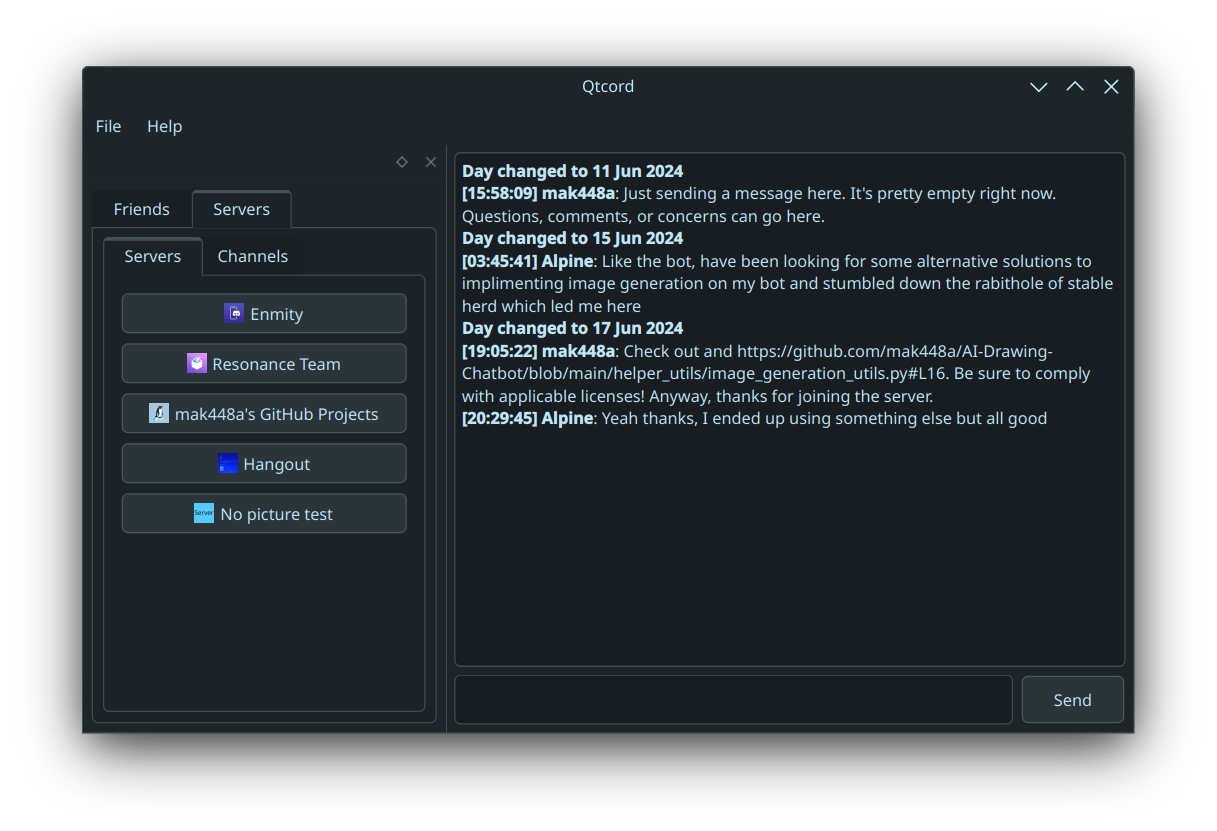
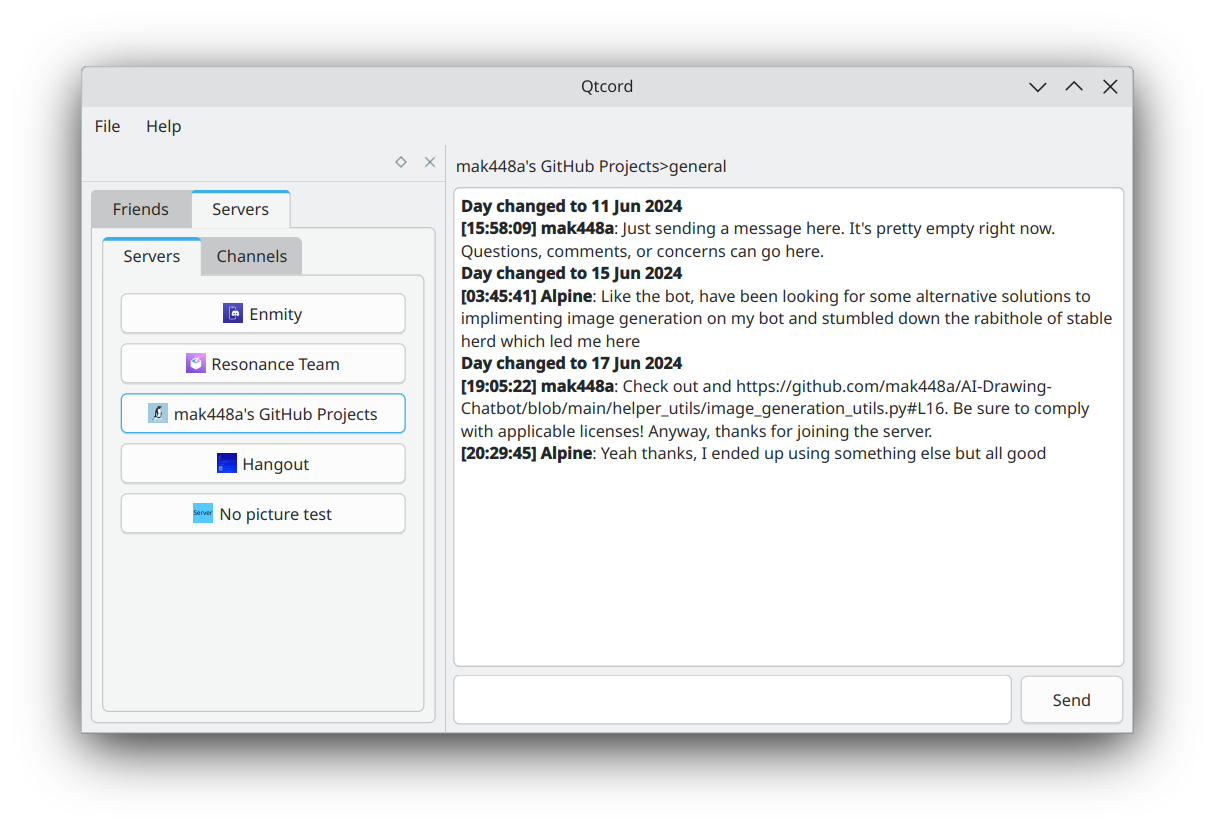
Prepare for release! (#72)
* Update demos

* Update licenses

* Update metainfo

diff --git a/src/ui/licenses_ui.py b/src/ui/licenses_ui.py
@@ -63,31 +63,34 @@ class Ui_LicensesDialog(object):
 "<p style=\" margin-top:0px; margin-bottom:0px; margin-left:0px; margin-right:0px; -qt-block-indent:0; text-indent:0px;\"><span style=\" font-weight:700;\">PySide6</span></p>\n"
 "<p style=\" margin-top:0px; margin-bottom:0px; margin-left:0px; margin-right:0px; -qt-block-indent:0; text-indent:0px;\">LGPL</p>\n"
 "<p style=\" margin-top:0px; margin-bottom:0px; margin-left:0px; margin-right:0px; -qt-block-indent:0; text-indent:0px;\"><span style=\" font-weight:700;\">Platformdirs</span></p>\n"
-"<p style=\" margin-top:0px; margin-bottom:0px; margin-left:0px; margin-right:0px; -qt-block-indent:0; text-indent:0px;\">MIT</p>\n"
-"<p style=\" margin-top:0px; margin-bottom:0px; margin-left:0px; margin-right:0px; -qt-block-indent:0; text-indent:0px;\"><span style=\" font-weight:700;\">Requests</span></p>\n"
-"<p"
-                        " style=\" margin-top:0px; margin-bottom:0px; margin-left:0px; margin-right:0px; -qt-block-indent:0; text-indent:0px;\">Apache</p>\n"
+"<p style=\" margin-top:0px; margin-bottom:0px; margin-left:0px; margin-right:0px; -qt-block-indent:0; text-indent:0px;\">MIT: Copyright (c) 2010-202x The platformdirs developers</p>\n"
+"<p style=\" margin-top:0px; margin-bottom:0px; margin-left:0px; margin-right:0px; -qt-block-indent:0; text-indent:0px;\"><span s"
+                        "tyle=\" font-weight:700;\">Requests</span></p>\n"
+"<p style=\" margin-top:0px; margin-bottom:0px; margin-left:0px; margin-right:0px; -qt-block-indent:0; text-indent:0px;\">Apache</p>\n"
 "<p style=\" margin-top:0px; margin-bottom:0px; margin-left:0px; margin-right:0px; -qt-block-indent:0; text-indent:0px;\"><span style=\" font-weight:700;\">Python</span></p>\n"
 "<p style=\" margin-top:0px; margin-bottom:0px; margin-left:0px; margin-right:0px; -qt-block-indent:0; text-indent:0px;\">PSF</p>\n"
+"<p style=\" margin-top:0px; margin-bottom:0px; margin-left:0px; margin-right:0px; -qt-block-indent:0; text-indent:0px;\"><span style=\" font-weight:700;\">xxHash</span></p>\n"
+"<p style=\" margin-top:0px; margin-bottom:0px; margin-left:0px; margin-right:0px; -qt-block-indent:0; text-indent:0px;\">BSD: Copyright (c) 2012-2021 Yann Collet</p>\n"
 "<p style=\" margin-top:0px; margin-bottom:0px; margin-left:0px; margin-right:0px; -qt-block-indent:0; text-indent:0px;\"><span style=\" font-weight:700;\">Altgraph</span></p>\n"
-"<p style=\" margin-top:0px; margin-bottom:0px; margin-left:0px; margin-right:0px; -qt-block-indent:0; text-indent:0px;\">MIT: Copyright (c) 2004 Istvan Albert unless otherwise noted., Copyright (c) 2006-2010 Bob Ippolito, Copyright (2) 2010-2020 Ronald Oussoren, et. al.</p>\n"
-"<p style=\" margin-top:0px; margin-bottom:0px; margin-left:0px; margin-right:0px; -qt-block-indent:0; text-indent:0px;\"><s"
-                        "pan style=\" font-weight:700;\">Certifi</span></p>\n"
+"<p"
+                        " style=\" margin-top:0px; margin-bottom:0px; margin-left:0px; margin-right:0px; -qt-block-indent:0; text-indent:0px;\">MIT: Copyright (c) 2004 Istvan Albert unless otherwise noted., Copyright (c) 2006-2010 Bob Ippolito, Copyright (2) 2010-2020 Ronald Oussoren, et. al.</p>\n"
+"<p style=\" margin-top:0px; margin-bottom:0px; margin-left:0px; margin-right:0px; -qt-block-indent:0; text-indent:0px;\"><span style=\" font-weight:700;\">Certifi</span></p>\n"
 "<p style=\" margin-top:0px; margin-bottom:0px; margin-left:0px; margin-right:0px; -qt-block-indent:0; text-indent:0px;\">MPL</p>\n"
 "<p style=\" margin-top:0px; margin-bottom:0px; margin-left:0px; margin-right:0px; -qt-block-indent:0; text-indent:0px;\"><span style=\" font-weight:700;\">Charset-Normalizer</span></p>\n"
 "<p style=\" margin-top:0px; margin-bottom:0px; margin-left:0px; margin-right:0px; -qt-block-indent:0; text-indent:0px;\">MIT: Copyright (c) 2019 TAHRI Ahmed R.</p>\n"
-"<p style=\" margin-top:0px; margin-bottom:0px; margin-left:0px; margin-right:0px; -qt-block-indent:0; text-indent:0px;\"><span style=\" font-weight:700;\">Idna</span></p>\n"
+"<p style=\" margin-top:0px; margin-bottom:0px; margin-left:0px; margin-right:0px"
+                        "; -qt-block-indent:0; text-indent:0px;\"><span style=\" font-weight:700;\">Idna</span></p>\n"
 "<p style=\" margin-top:0px; margin-bottom:0px; margin-left:0px; margin-right:0px; -qt-block-indent:0; text-indent:0px;\">BSD: Copyright (c) 2013-2023, Kim Davies and contributors.</p>\n"
-"<p style=\" margin-top:0px; margin-bottom:0px; margin-left:0px; margin-right:0px; -qt-block-indent:0; text-indent:0px"
-                        ";\"><span style=\" font-weight:700;\">Urllib3</span></p>\n"
+"<p style=\" margin-top:0px; margin-bottom:0px; margin-left:0px; margin-right:0px; -qt-block-indent:0; text-indent:0px;\"><span style=\" font-weight:700;\">Urllib3</span></p>\n"
 "<p style=\" margin-top:0px; margin-bottom:0px; margin-left:0px; margin-right:0px; -qt-block-indent:0; text-indent:0px;\">MIT: Copyright (c) 2008-2020 Andrey Petrov and contributors.</p>\n"
 "<p style=\" margin-top:0px; margin-bottom:0px; margin-left:0px; margin-right:0px; -qt-block-indent:0; text-indent:0px;\"><span style=\" font-weight:700;\">Websocket-Client</span></p>\n"
 "<p style=\" margin-top:0px; margin-bottom:0px; margin-left:0px; margin-right:0px; -qt-block-indent:0; text-indent:0px;\">Apache</p>\n"
-"<p style=\"-qt-paragraph-type:empty; margin-top:0px; margin-bottom:0px; margin-left:0px; margin-right:0px; -qt-block-indent:0; text-indent:0px;\"><br /></p>\n"
+"<p style=\"-qt-paragraph-type:empty; margin-top:0px"
+                        "; margin-bottom:0px; margin-left:0px; margin-right:0px; -qt-block-indent:0; text-indent:0px;\"><br /></p>\n"
 "<p style=\" margin-top:0px; margin-bottom:0px; margin-left:0px; margin-right:0px; -qt-block-indent:0; text-indent:0px;\">You can view the full licenses by going into the folder where Qtcord was installed. For Linux, check the following directories:</p>\n"
-"<p style=\" margin-top:0px; margi"
-                        "n-bottom:0px; margin-left:0px; margin-right:0px; -qt-block-indent:0; text-indent:0px;\"><span style=\" font-style:italic; text-decoration: underline;\">/var/lib/flatpak/app/io.github.mak448a.Qtcord/x86_64/stable/active/files/bin/licenses/</span></p>\n"
-"<p style=\" margin-top:0px; margin-bottom:0px; margin-left:0px; margin-right:0px; -qt-block-indent:0; text-indent:0px;\"><span style=\" font-style:italic; text-decoration: underline;\">~/.local/share/flatpak/app/io.github.mak448a.Qtcord/x86_64/stable/active/files/bin/licenses/</span></p>\n"
-"<p style=\"-qt-paragraph-type:empty; margin-top:0px; margin-bottom:0px; margin-left:0px; margin-right:0px; -qt-block-indent:0; text-indent:0px; font-style:italic; text-decoration: underline;\"><br /></p></body></html>", None))
+"<p style=\" margin-top:0px; margin-bottom:0px; margin-left:0px; margin-right:0px; -qt-block-indent:0; text-indent:0px;\"><span style=\" font-style:italic; text-decoration: underline;\">/var/lib/flatpak/app/io.github.mak448a.QTCord/x86_64/stable/active/files/bin/licenses/</span></p>\n"
+"<p style=\" margin-top:0px; margin-bottom:0px; margin-left:0px; margin-right:0px; -qt-block-indent:0; text-indent:0px;\"><span style=\" font-style:italic; text-decoration: underline;\">~/.local/share/flatpak/app/io.github.mak448a.QTCord/x86_64/stable/active/files/bin/licenses/</span></p>\n"
+"<p style=\"-qt-paragraph-type:empty; margin-top:0px; margin-bottom:0px; margin"
+                        "-left:0px; margin-right:0px; -qt-block-indent:0; text-indent:0px; font-style:italic; text-decoration: underline;\"><br /></p></body></html>", None))
     # retranslateUi
 

diff --git a/CONTRIBUTING.md b/CONTRIBUTING.md
@@ -14,4 +14,6 @@ If you're on Windows, just stick with Python requests.
 Try to follow PEP-8 (the squiggly underlines in Pycharm) standards. If you can't, that's perfectly fine.
 You can use a code formatter called Ruff if needed.
 
+If you add a dependency, make sure to add the appropriate license to the licenses folder.
+
 To edit the user interface, use QT designer and put the UI files under `src/ui`. To apply the UI, run `src/regenerate.py`.

diff --git a/README.md b/README.md
@@ -11,7 +11,7 @@ Qtcord is a Discord client built with QT aiming to bring a lightweight, native e
 [Download for Windows](https://github.com/mak448a/Qtcord/releases)
 <br>
 
-![Screenshot of Qtcord](demos/demo1.png)
+![Screenshot of Qtcord](demos/demo4.png)
 
 ## Setup
 > [!NOTE]
